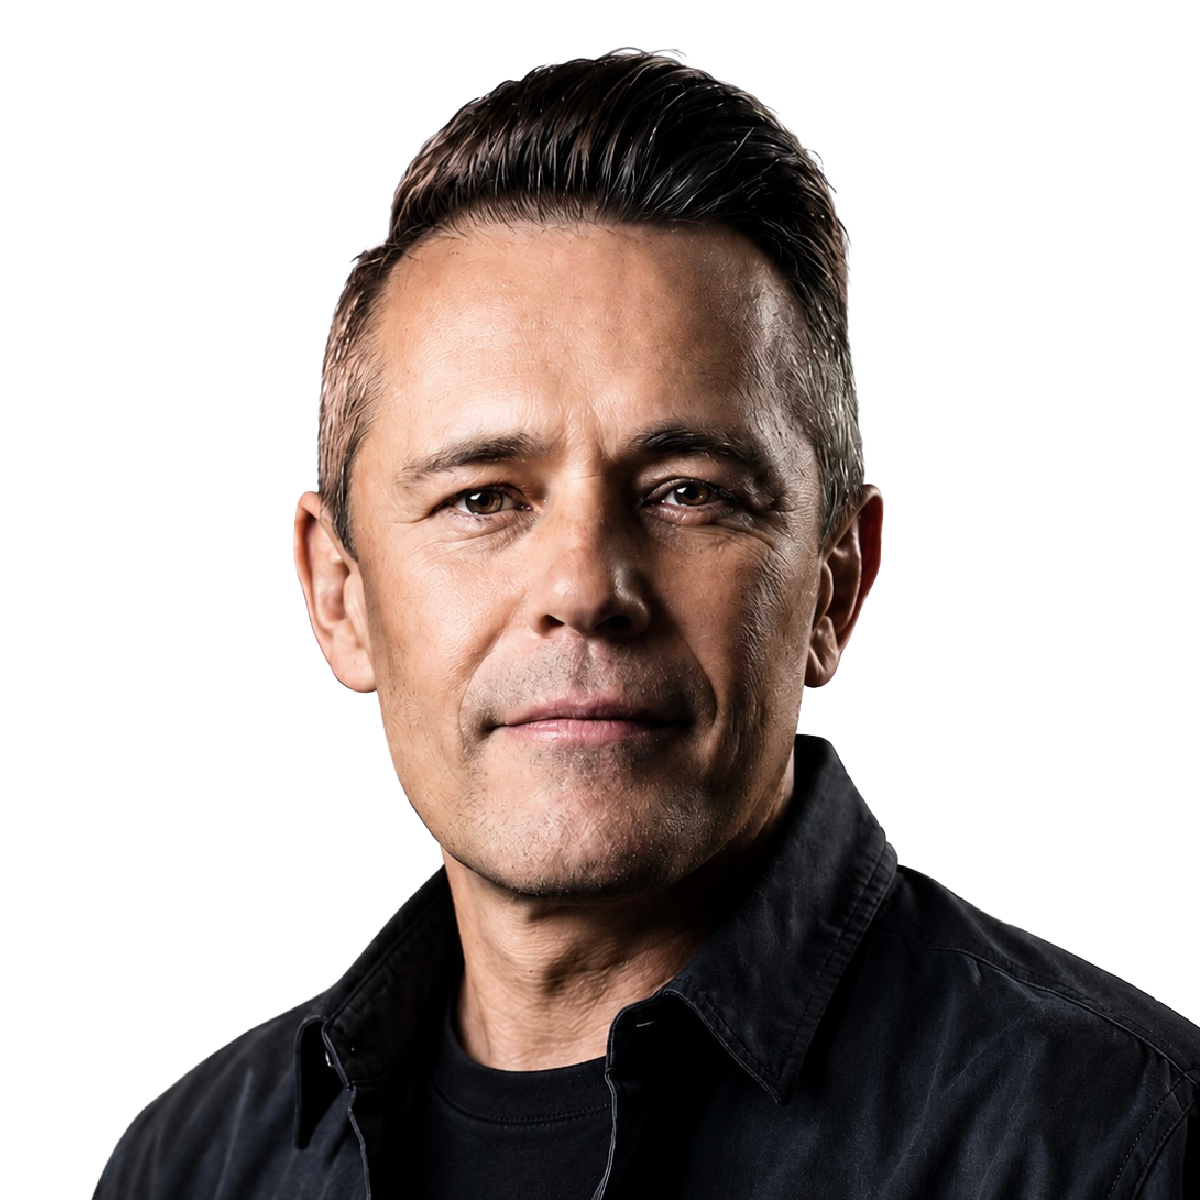
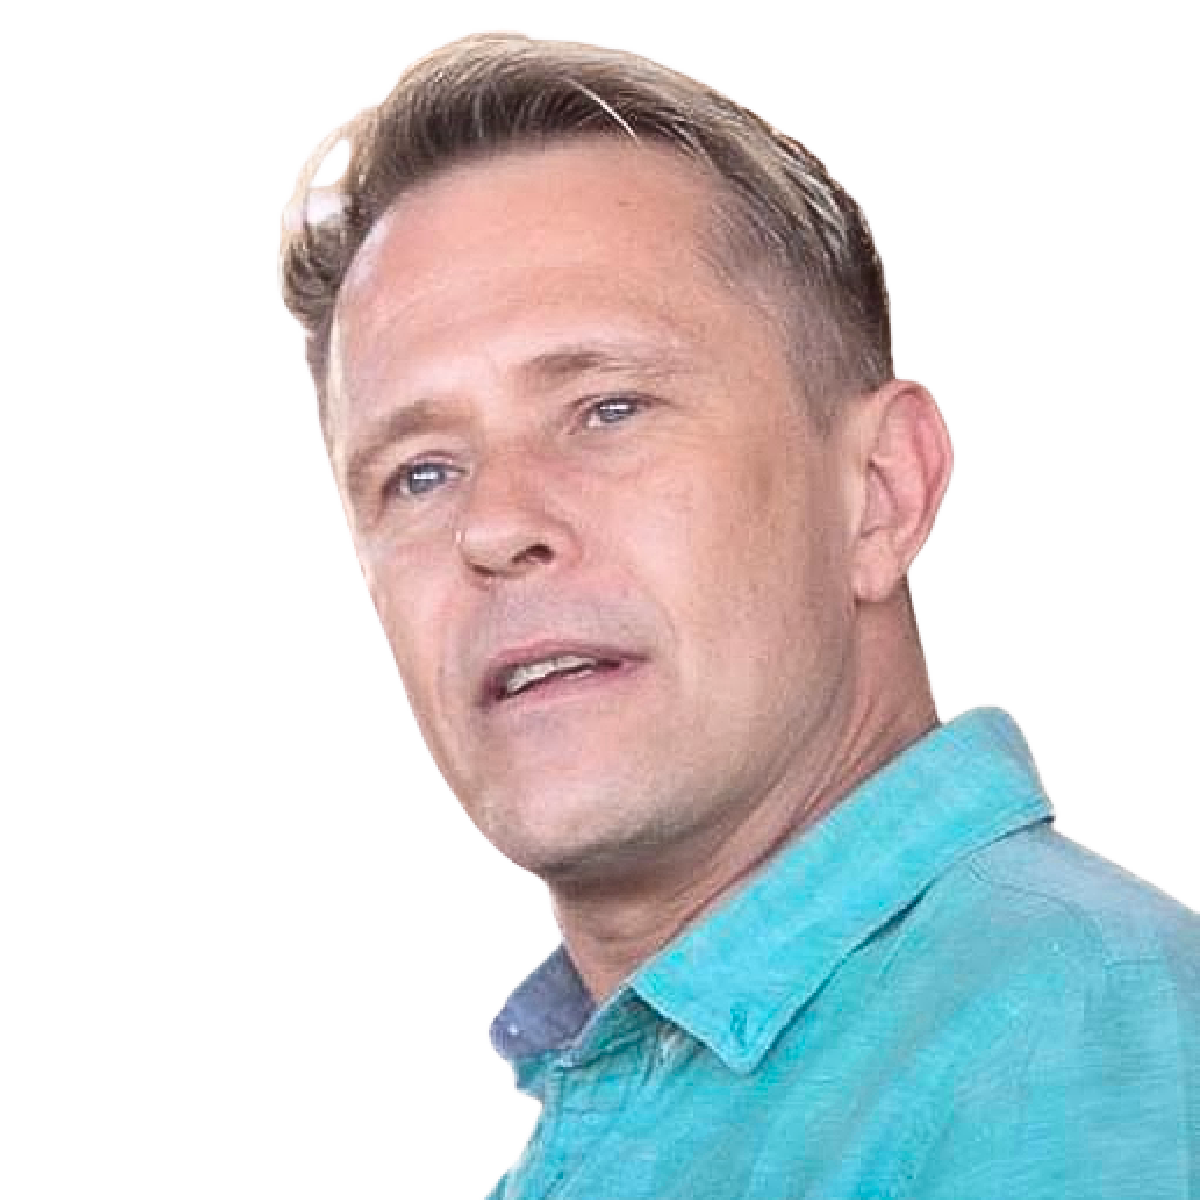
Update Team presentation

diff --git a/frontend/public/about.html b/frontend/public/about.html
@@ -104,9 +104,9 @@
     .team-grid-row2 { display: grid; grid-template-columns: repeat(3, 1fr); gap: 16px; margin-top: 16px; }
     .team-grid-row3 { display: grid; grid-template-columns: repeat(3, 1fr); gap: 16px; margin-top: 16px; }
     .team-grid-row4 { display: grid; grid-template-columns: repeat(3, 1fr); gap: 16px; margin-top: 16px; }
-    .team-card { border: 1px solid rgba(26,39,68,0.15); overflow: hidden; }
-    .team-img { width: 100%; aspect-ratio: 3/2.4; overflow: hidden; }
-    .team-img img { width: 100%; height: 100%; object-fit: cover; object-position: center top; display: block; }
+    .team-card { border: 1px solid rgba(26,39,68,0.15); overflow: hidden; display: flex; flex-direction: column; }
+    .team-img { width: 100%; aspect-ratio: 3/2.4; overflow: hidden; background: var(--white); display: flex; align-items: center; justify-content: center; }
+    .team-img img { width: 100%; height: 100%; object-fit: contain; object-position: center top; display: block; }
     .team-info { background: var(--lavender); padding: 12px 14px 16px; }
     .team-name { font-size: 24px; font-weight: 700; color: var(--dark-text); line-height: 1.2; margin-bottom: 6px; }
     .team-role { font-size: 18px; font-weight: 500; color: var(--dark-text); margin-bottom: 6px; }